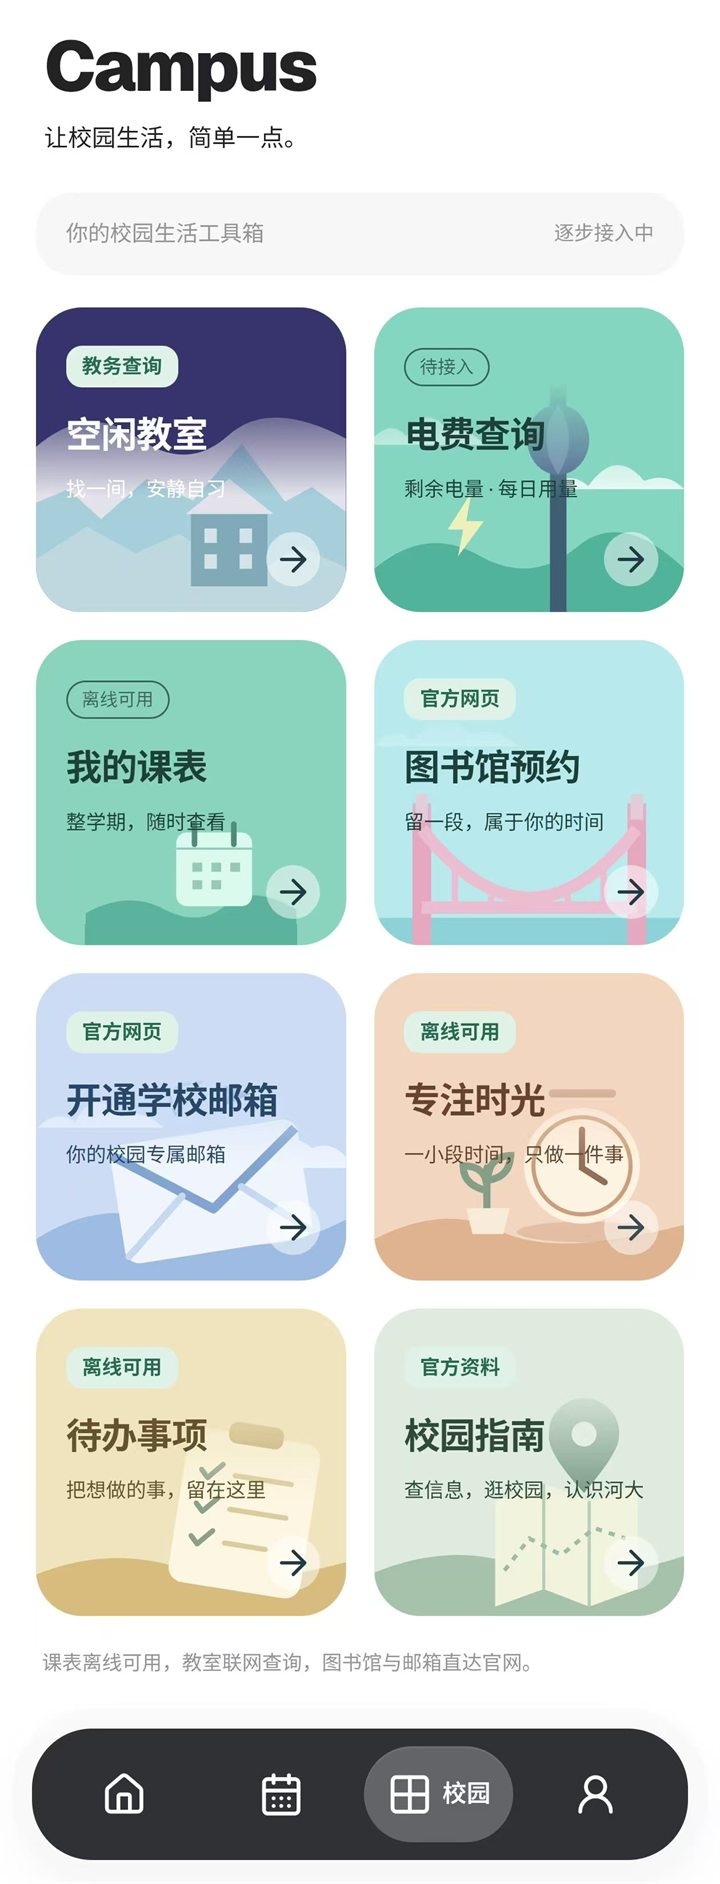
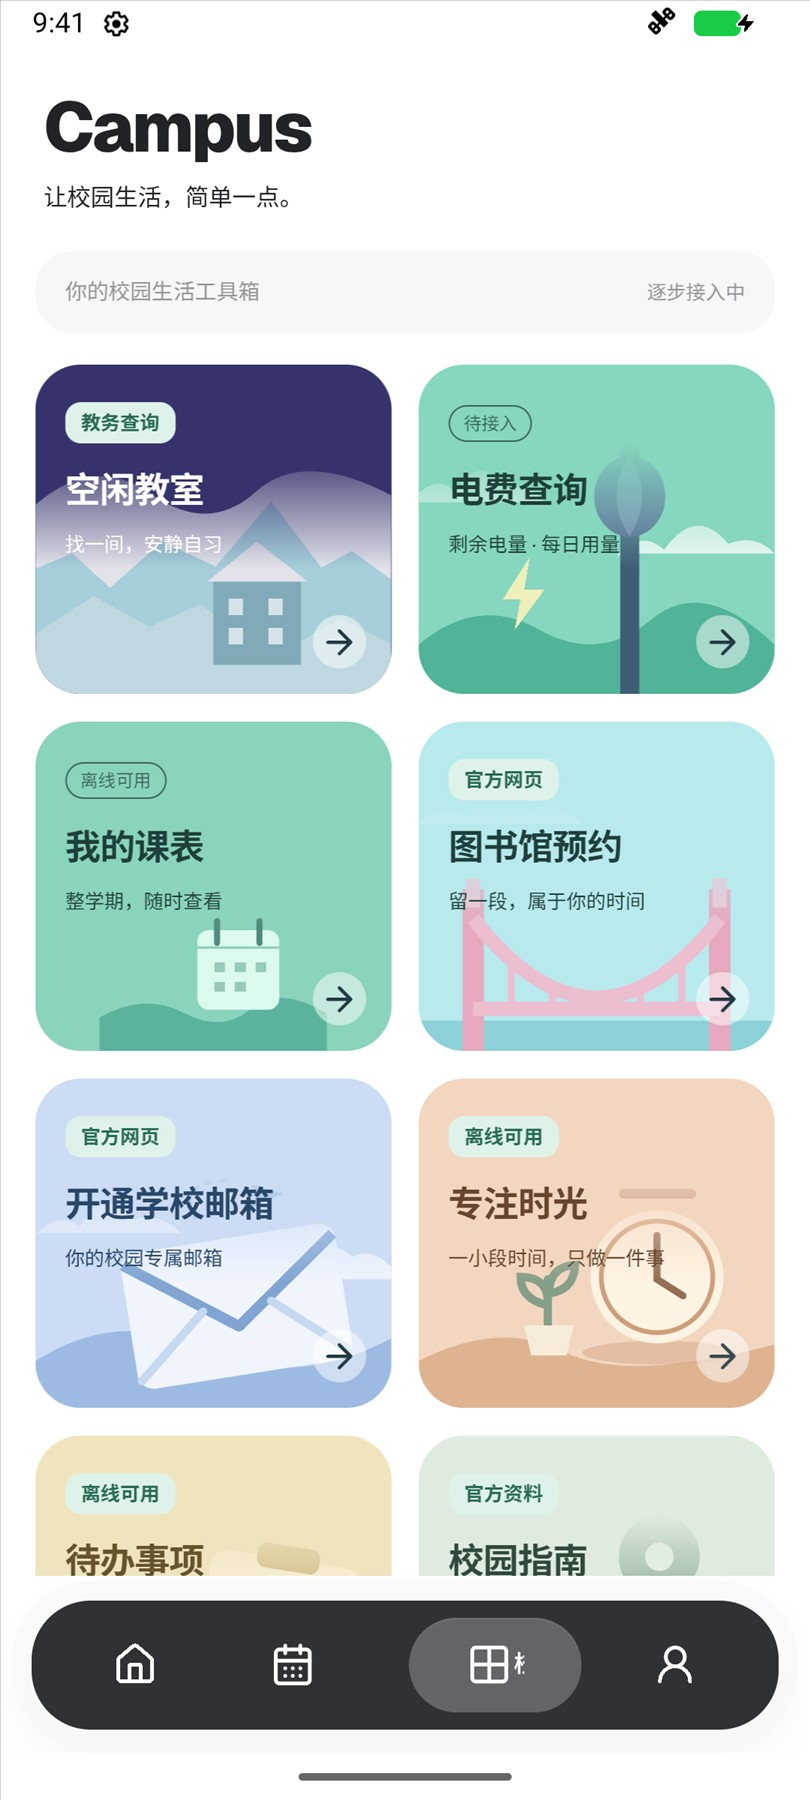
Update README screenshots

diff --git a/README.md b/README.md
@@ -1,125 +1,66 @@
-# HENUBox 河小盒
+# HENUBox · 河小盒
 
-> 把课表、校园服务和日常小事，装进一个盒子里。
+面向河南大学学生的 Android 校园工具。保存课表后可以离线查看，也能从应用里查空闲教室、打开图书馆预约，或安排自己的待办和专注时间。应用免费、无广告，由个人维护。
 
-面向河南大学校园生活的 Android 工具箱。非学校官方应用，免费、无广告。
+[下载 APK](https://github.com/moonquake25104/HENUBox/releases/latest) · [更新记录](docs/releases/v0.1.3.md) · [反馈问题](https://github.com/moonquake25104/HENUBox/issues)
 
-[下载最新版](https://github.com/moonquake25104/HENUBox/releases/latest) · [问题反馈](https://github.com/moonquake25104/HENUBox/issues) · [参与贡献](CONTRIBUTING.md)
+## 能做什么
 
-## 为什么是河小盒
-
-大学里的信息常常散落在教务系统、图书馆、邮箱和一堆网页里。河小盒想做的事情很简单：把每天真正会用到的部分收在一起，让课表、待办和校园服务触手可及，同时尽量把数据留在你自己的手机上。
+- **看课表、收上课提醒** — 从学校教务保存课表，也可以手动加课、修改时间和地点。支持 18 周、五天或七天视图，以及郑州、金明、明伦三个校区的作息。首页显示今日课程。开启提醒后，可以选提前 5、10、15 或 30 分钟通知。
+- **把课程放到桌面** — 可添加「今明课表」「五天课表」「七天课表」和「专注时光」小组件。五天和七天版可以同时放置，背景有三档透明度。
+- **查校园信息、办常用事项** — 登录教务后可按楼栋、日期和节次查询空闲教室。可打开学校的图书馆预约、邮箱开户页面，也能在校园指南查看校历、校区地图、校内电话、校车和进校预约。
+- **安排学习和生活** — 用番茄钟或正计时专注，可选白噪音和勿扰。用待办、倒计时、倒数日和计划表记下要做的事，首页按已有内容展示。待办和专注记录支持导出和恢复。
+- **自定义界面** — 可在经典、液态玻璃和安卓原生三种风格间切换，搭配五套配色和浅色、深色或跟随系统。首页卡片也可以换成自己的图片或短视频。
 
 ## 界面预览
 
+以下截图均来自 Android 模拟器，课表和待办为演示数据。点击任意截图可查看大图。
+
 <p align="center">
-  <a href="docs/images/preview.jpg">
-    <img src="docs/images/preview.jpg" width="820" alt="HENUBox 界面预览：首页、课表、Campus、外观与配色">
-  </a>
+  <a href="docs/images/home.jpg"><img src="docs/images/home.jpg" width="236" alt="首页，显示示例课程和今日待办"></a>
+  <a href="docs/images/timetable.jpg"><img src="docs/images/timetable.jpg" width="236" alt="周课表，按节次显示课程和教室"></a>
 </p>
-<p align="center"><sub>首页 · 课表 · Campus · 三种外观与五种配色</sub></p>
+<p align="center"><sub>首页 · 周课表</sub></p>
 
-> 截图仅用于展示应用功能；截图中的第三方图片、人物形象、字体等版权归原作者所有。若权利人认为使用不当或涉及侵权，请通过我的 GitHub 主页（https://github.com/moonquake25104）联系我，我会在确认后及时删除或替换相关图片。
+<p align="center">
+  <a href="docs/images/campus.jpg"><img src="docs/images/campus.jpg" width="236" alt="校园页，展示空闲教室、图书馆预约等入口"></a>
+  <a href="docs/images/focus.jpg"><img src="docs/images/focus.jpg" width="236" alt="专注时光，展示番茄专注和休息模式"></a>
+</p>
+<p align="center"><sub>校园服务 · 专注时光</sub></p>
 
-## 功能
+<p align="center">
+  <a href="docs/images/appearance.jpg"><img src="docs/images/appearance.jpg" width="236" alt="外观设置，展示三种风格和配色选项"></a>
+  <a href="docs/images/weekly-widget.jpg"><img src="docs/images/weekly-widget.jpg" width="236" alt="Android 桌面上的半透明七天课表小组件"></a>
+</p>
+<p align="center"><sub>外观设置 · 七天课表小组件</sub></p>
 
-### 课表：一次保存，整学期离线看
-
-- 首次从教务保存后，断网也能查看整学期课表
-- 支持 18 周、5 天/7 天显示、校区作息和个人编辑
-- 课程可以单独改颜色、时间、地点，临时调整也能自己安排
-- 首页直接显示今天要上的课和下一节安排
-
-### 桌面小组件：不用打开 App 也能看
-
-- 专注 2×2、今明课表 4×2、五天课表 4×4、七天课表 4×4
-- 两种周课表可以同时添加，按北京时间显示本周
-- 三档背景不透明度，默认微透，统一应用到四种组件
-- 课表组件打开课表，专注组件打开专注时光
-
-### 教务：本人登录，按需更新
-
-- 由你在学校官方页面完成登录，App 不要求你把密码交给开发者
-- 登录后可更新课表、查询空闲教室
-- 教务会话使用 Android Keystore 加密保存在本机
-
-### 上课提醒
-
-- 按本机课表提前 5、10、15 或 30 分钟提醒
-- 更新或编辑课表后自动重新安排
-- 通知、精确闹钟权限按需申请，并提供测试通知
-
-### 校园工具：少开几个网页
-
-- 空闲教室查询
-- 图书馆、学校邮箱等官方入口
-- 校园指南：校历、校区地图、常用电话、校车、校园信息
-- 专注计时与待办清单
-
-### 专注与待办
-
-- 番茄钟、正计时、白噪音和专注记录
-- 待办支持今天、重要、逾期等视图
-- 通知、提醒和勿扰权限按需申请，不需要时不会打扰
-
-### 时间与计划
-
-- 倒计时、倒数日和计划表
-- 首页只展示已经保存的对应内容，不额外打扰
-
-### 三种外观，五种配色
-
-- **经典**：干净、克制，适合日常
-- **液态玻璃**：半透明层次和柔和光影
-- **安卓原生**：更贴近系统组件的观感
-- 配色：原色、松间青、雾海蓝、云藤紫、暖杏
-- 支持浅色、深色和跟随系统
-
-### 数据留在本机
-
-课表、待办、专注记录和自定义背景主要保存在设备上；没有开发者广告 SDK，也不会把这些记录主动上传。待办和专注记录支持 JSON 备份与恢复，换机或重装前可以自己留一份。图书馆、邮箱等外部网页仍适用对应服务方的规则。
+截图用于展示应用功能，其中的第三方素材归原权利人所有。如需联系维护者，可通过 GitHub 主页反馈。 [维护者主页](https://github.com/moonquake25104)
 
 ## 下载与安装
 
-- 最新版本：[GitHub Releases](https://github.com/moonquake25104/HENUBox/releases)
-- 本次更新：[v0.1.3 更新说明](docs/releases/v0.1.3.md)
-- 系统要求：Android 9 及以上，arm64-v8a
-- 覆盖安装（需与已安装版本签名一致）即可保留本机课表、待办、专注记录和自定义背景
-- 这是学习交流项目，不提供学校账号代理，也不代表学校官方
+- 下载 Release 附件中的 APK。系统要求 Android 9 及以上，arm64-v8a。 [GitHub Releases](https://github.com/moonquake25104/HENUBox/releases)
+- 覆盖安装要求新旧 APK 签名一致，满足条件即可保留本机课表、待办、专注记录和自定义背景。
 
-## 一起完善河小盒
+## 隐私与安全
 
-河小盒目前由个人维护，功能范围保持稳定，优先修复问题和打磨体验。但一个校园工具想真正好用，需要更多使用它的人一起提意见。
+HENUBox 是非学校官方应用。学校账号由你在学校页面登录，教务会话使用 Android Keystore 加密保存在本机。课表、待办、专注记录和自选媒体保存在设备，应用不会主动上传这些记录。图书馆、邮箱等外部网页仍适用各自的隐私规则。 [隐私说明](docs/PRIVACY.md)
 
-欢迎从这些方向参与：
+## 参与贡献
 
-- **反馈问题**：说明机型、系统版本、复现步骤和预期结果；请先去掉姓名、学号、密码、Cookie 和个人课表
-- **适配机型**：不同厂商的通知、后台、勿扰和权限策略差异很大，欢迎帮忙测试
-- **改进解析**：学校页面和教务系统会变化，遇到解析失败可以提供脱敏后的结构说明
-- **界面与交互**：三种外观、配色、排版、动效和无障碍都可以继续打磨
-- **文档与测试**：补充构建说明、隐私说明、回归用例，或者帮忙校对文案
-- **分享给同学**：如果它确实帮你省了一点时间，欢迎推荐给需要的人
-
-提交代码前请先阅读 [贡献说明](CONTRIBUTING.md)；安全问题请按 [安全反馈](SECURITY.md) 私下联系，不要在公开 Issue 里贴凭据或个人信息。
+欢迎反馈使用问题、测试不同机型，也欢迎改进教务解析、界面、无障碍和文档。反馈时建议提供机型、系统版本和复现步骤，去除姓名、学号、凭据和个人课表。安全问题请走私下反馈渠道。 [提交 Issue](https://github.com/moonquake25104/HENUBox/issues) · [贡献说明](CONTRIBUTING.md) · [安全反馈](SECURITY.md)
 
 ## 开发与构建
 
-界面使用 React + TypeScript + Vite，Android 壳使用 Capacitor + Java/Kotlin，课表解析使用 Go。具体工具版本、构建命令和测试入口见 [开发说明](docs/BUILDING.md)。
+界面使用 React、TypeScript 和 Vite，Android 壳使用 Capacitor、Java 和 Kotlin，课表解析使用 Go。 [开发说明](docs/BUILDING.md)
 
 ```powershell
 powershell.exe -NoProfile -ExecutionPolicy Bypass -File scripts/build-android.ps1 -InstallDependencies
 ```
 
-构建产物在 `App/mobile/android/app/build/outputs/apk/`。源码结构、模块说明和发布流程分别在 `App/`、`docs/` 和 [发布说明](docs/PUBLISHING.md) 中。
-
-## 隐私与安全
-
-课表、待办、专注记录和自选媒体主要保存在设备；学校登录由用户在学校页面完成，教务会话由 Android Keystore 保护。通知、提醒、勿扰等权限按需申请。详见 [隐私说明](docs/PRIVACY.md) 与应用内“我的 → 关于HENUBox”。
-
-不承诺不存在漏洞。反馈问题时请勿附带凭据、Cookie、学号、个人课表或未脱敏截图。
+构建产物位于 `App/mobile/android/app/build/outputs/apk/`。 [发布说明](docs/PUBLISHING.md)
 
 ## 许可与致谢
 
-代码沿用上游 [MIT 许可证](LICENSE)，保留 Kairos 原始版权，并注明 HENUBox 维护者 [moonquake25104](https://github.com/moonquake25104) 的版权。第三方源码、依赖与素材的许可列在 [第三方致谢](THIRD_PARTY_NOTICES.md)，并可在应用内离线查看。
+代码沿用 Kairos 的 MIT 许可，保留原始版权及 HENUBox 维护者署名。第三方源码、依赖与素材的许可也可在应用内离线查看。 [MIT 许可证](LICENSE) · [第三方致谢](THIRD_PARTY_NOTICES.md)
 
 感谢 Kairos、React、Capacitor、Radix UI、Lucide、AndroidX/Compose、Kotlin、Go、AndroidLiquidGlass/Backdrop、字体与音频作者，以及参与测试和分享建议的朋友。
